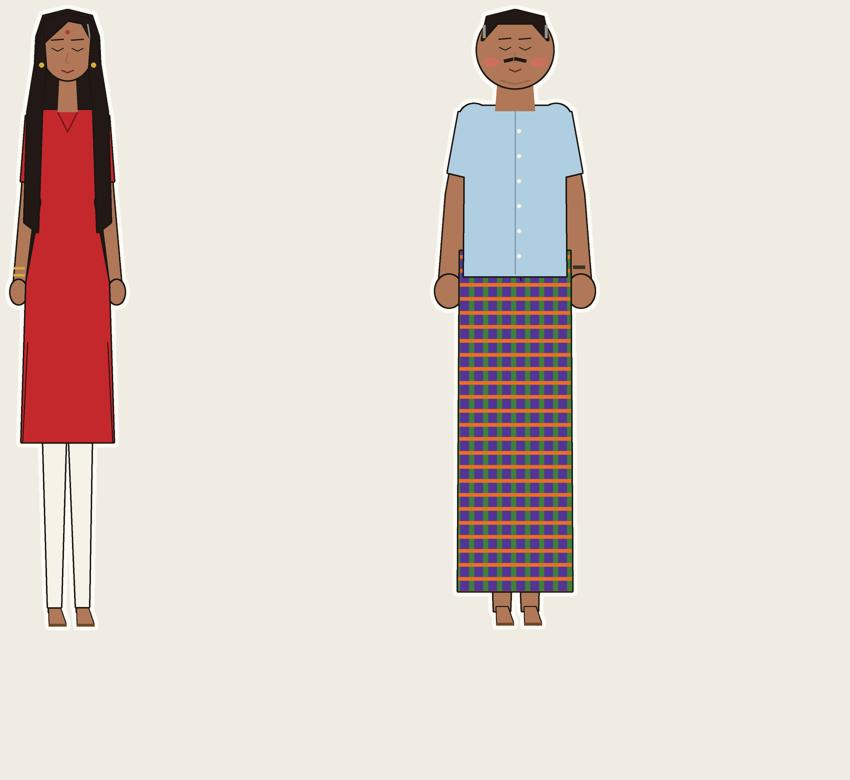
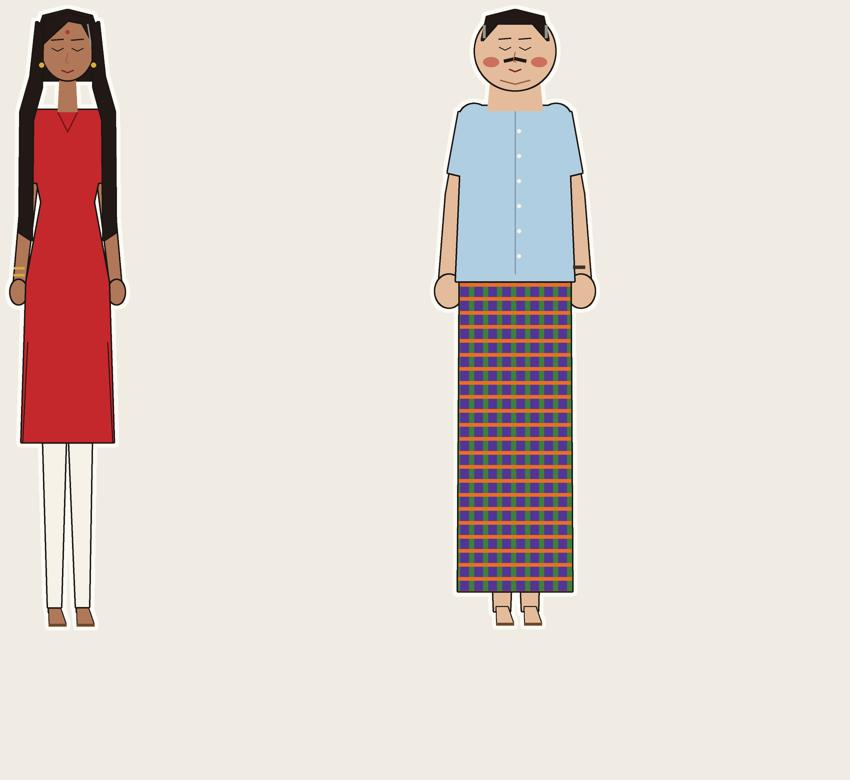
Reel 4: Mum's neck visible, fair-skinned Dad
Claude-Session: https://claude.ai/code/session_019PesBvg4SEFhUJP6SN77P7

diff --git a/reel4/render.py b/reel4/render.py
@@ -160,19 +160,20 @@ def elder(kind, laugh=False):
     Dad: a half-sleeve shirt and a checked kaili lungi, a watch."""
     c = Canvas()
     mum = kind == "mum"
+    sk = SKIN if mum else (228, 188, 156)                                                     # Dad: fair skin
     if mum:   # long straight hair falls behind her back, past the waist
-        c.fill(_poly([(338, 150), (352, 108), (400, 96), (448, 108), (462, 150), (484, 600), (452, 640), (348, 640), (316, 600)]), HAIR)
+        c.fill(_poly([(338, 150), (352, 108), (400, 96), (448, 108), (462, 150), (470, 236), (330, 236)]), HAIR)   # behind the head only
     # legs and flat sandals, same construction as the girl
     for side, x_hip, x_ank in [(-1, 380, 374), (1, 420, 430)]:
-        c.fill(_limb([(x_hip, 760), (x_hip + side * 6, 960), (x_ank, 1300)], 62 if mum else 80, 22 if mum else 32), SKIN)
-        c.fill(_poly([(x_ank - 11, 1292), (x_ank + 11, 1292), (x_ank + 22, 1324), (x_ank - 10, 1324)]), SKIN, ow=2)
+        c.fill(_limb([(x_hip, 760), (x_hip + side * 6, 960), (x_ank, 1300)], 62 if mum else 80, 22 if mum else 32), sk)
+        c.fill(_poly([(x_ank - 11, 1292), (x_ank + 11, 1292), (x_ank + 22, 1324), (x_ank - 10, 1324)]), sk, ow=2)
         c.line([(x_ank - 12, 1326), (x_ank + 24, 1326)], (110, 70, 40), 6)
     if mum:   # leggings over the legs
         c.fill(_union(_limb([(380, 760), (374, 960), (374, 1290)], 64, 26), _limb([(420, 760), (426, 960), (430, 1290)], 64, 26)), WHITE)
     # arms
     ax = 0 if mum else 34                                                                   # Dad is broader
-    c.fill(_limb([(338 - ax / 2, 312), (322 - ax, 470), (304 - ax, 640)], 34 + ax * 0.8, 22 + ax * 0.6), SKIN); c.fill(_ell(302 - ax, 660, 16 + ax / 3, 24 + ax / 4), SKIN)
-    c.fill(_limb([(462 + ax / 2, 312), (478 + ax, 470), (496 + ax, 640)], 34 + ax * 0.8, 22 + ax * 0.6), SKIN); c.fill(_ell(498 + ax, 660, 16 + ax / 3, 24 + ax / 4), SKIN)
+    c.fill(_limb([(338 - ax / 2, 312), (322 - ax, 470), (304 - ax, 640)], 34 + ax * 0.8, 22 + ax * 0.6), sk); c.fill(_ell(302 - ax, 660, 16 + ax / 3, 24 + ax / 4), sk)
+    c.fill(_limb([(462 + ax / 2, 312), (478 + ax, 470), (496 + ax, 640)], 34 + ax * 0.8, 22 + ax * 0.6), sk); c.fill(_ell(498 + ax, 660, 16 + ax / 3, 24 + ax / 4), sk)
     if mum:
         kurti = (196, 40, 44)                                                                 # simple red kurti
         c.fill(_union(_poly([(334, 296), (466, 296), (474, 380), (452, 480), (482, 640), (492, 960), (308, 960), (318, 640), (348, 480), (326, 380)]),
@@ -193,19 +194,19 @@ def elder(kind, laugh=False):
         c.line([(400, 300), (400, 626)], (120, 140, 160), 2)
         for y in range(340, 600, 50): c.fill(_ell(408, y, 4, 4), WHITE, outline=False)
         c.line([(516, 612), (540, 612)], (60, 50, 40), 7)                                     # watch
-    c.fill(_poly([(384, 225), (416, 225), (420, 300), (380, 300)]), SKIN, outline=False)
+    c.fill(_poly([(384, 225), (416, 225), (420, 300), (380, 300)]), sk, outline=False)
     if mum:   # straight hair down to the shoulders, one soft grey strand
-        c.fill(_ell(400, 170, 52, 66), SKIN)
+        c.fill(_ell(400, 170, 52, 66), sk)
         c.fill(_poly([(346, 166), (354, 116), (400, 102), (446, 116), (454, 166), (430, 122), (400, 116)]), HAIR)
         c.line([(440, 124), (452, 200)], (150, 146, 140), 3)
         c.fill(_ell(400, 140, 4, 4), RED, outline=False)
         for sd in (-1, 1):    # long strands over the front of each shoulder, down to the waist
-            x0 = 400 + sd * 50
-            c.fill(_poly([(x0, 130), (x0 + sd * 14, 200), (x0 + sd * 30, 300), (x0 + sd * 36, 520), (x0 + sd * 10, 540), (x0 + sd * 2, 300), (x0 - sd * 6, 210)]), HAIR)
+            x0 = 400 + sd * 50   # strands start beside the face and fall outward, leaving the neck and chest clear
+            c.fill(_poly([(x0, 130), (x0 + sd * 12, 120), (x0 + sd * 24, 230), (x0 + sd * 44, 300), (x0 + sd * 46, 540), (x0 + sd * 22, 556), (x0 + sd * 20, 316), (x0 + sd * 2, 250)]), HAIR)
         for ex in (348, 452): c.fill(_ell(ex, 206, 5, 5), GOLD, outline=False)
     else:     # rounder, cuter face with soft cheeks
-        c.fill(_poly([(352, 220), (448, 220), (456, 300), (344, 300)]), SKIN, outline=False)   # thick neck
-        c.fill(_ell(400, 180, 80, 78), SKIN)
+        c.fill(_poly([(352, 220), (448, 220), (456, 300), (344, 300)]), sk, outline=False)   # thick neck
+        c.fill(_ell(400, 180, 80, 78), sk)
         c.line([(370, 238), (400, 246), (430, 238)], dress.SKIN_SH, 3)                       # soft double chin
         for ex in (352, 448): c.fill(_ell(ex, 202, 16, 10), (204, 112, 92), outline=False)
         c.fill(_poly([(334, 158), (344, 112), (400, 98), (456, 112), (466, 158), (436, 124), (364, 124)]), HAIR)
